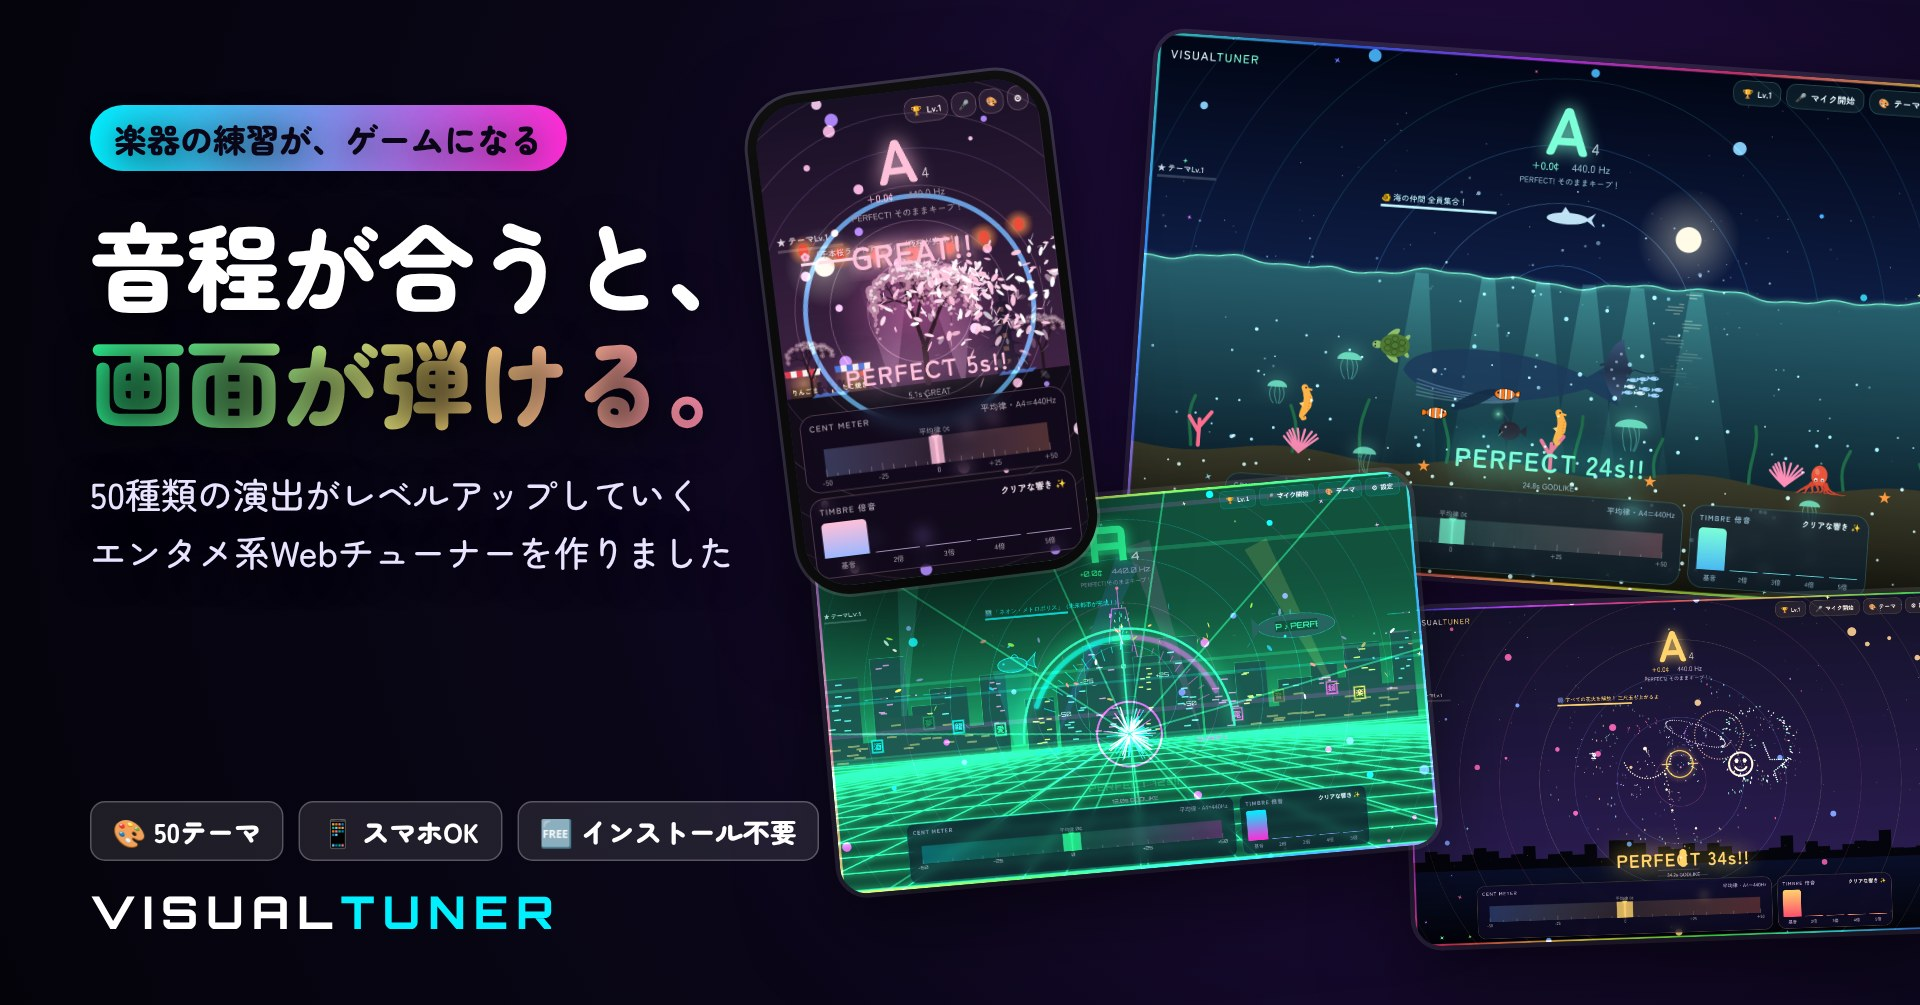
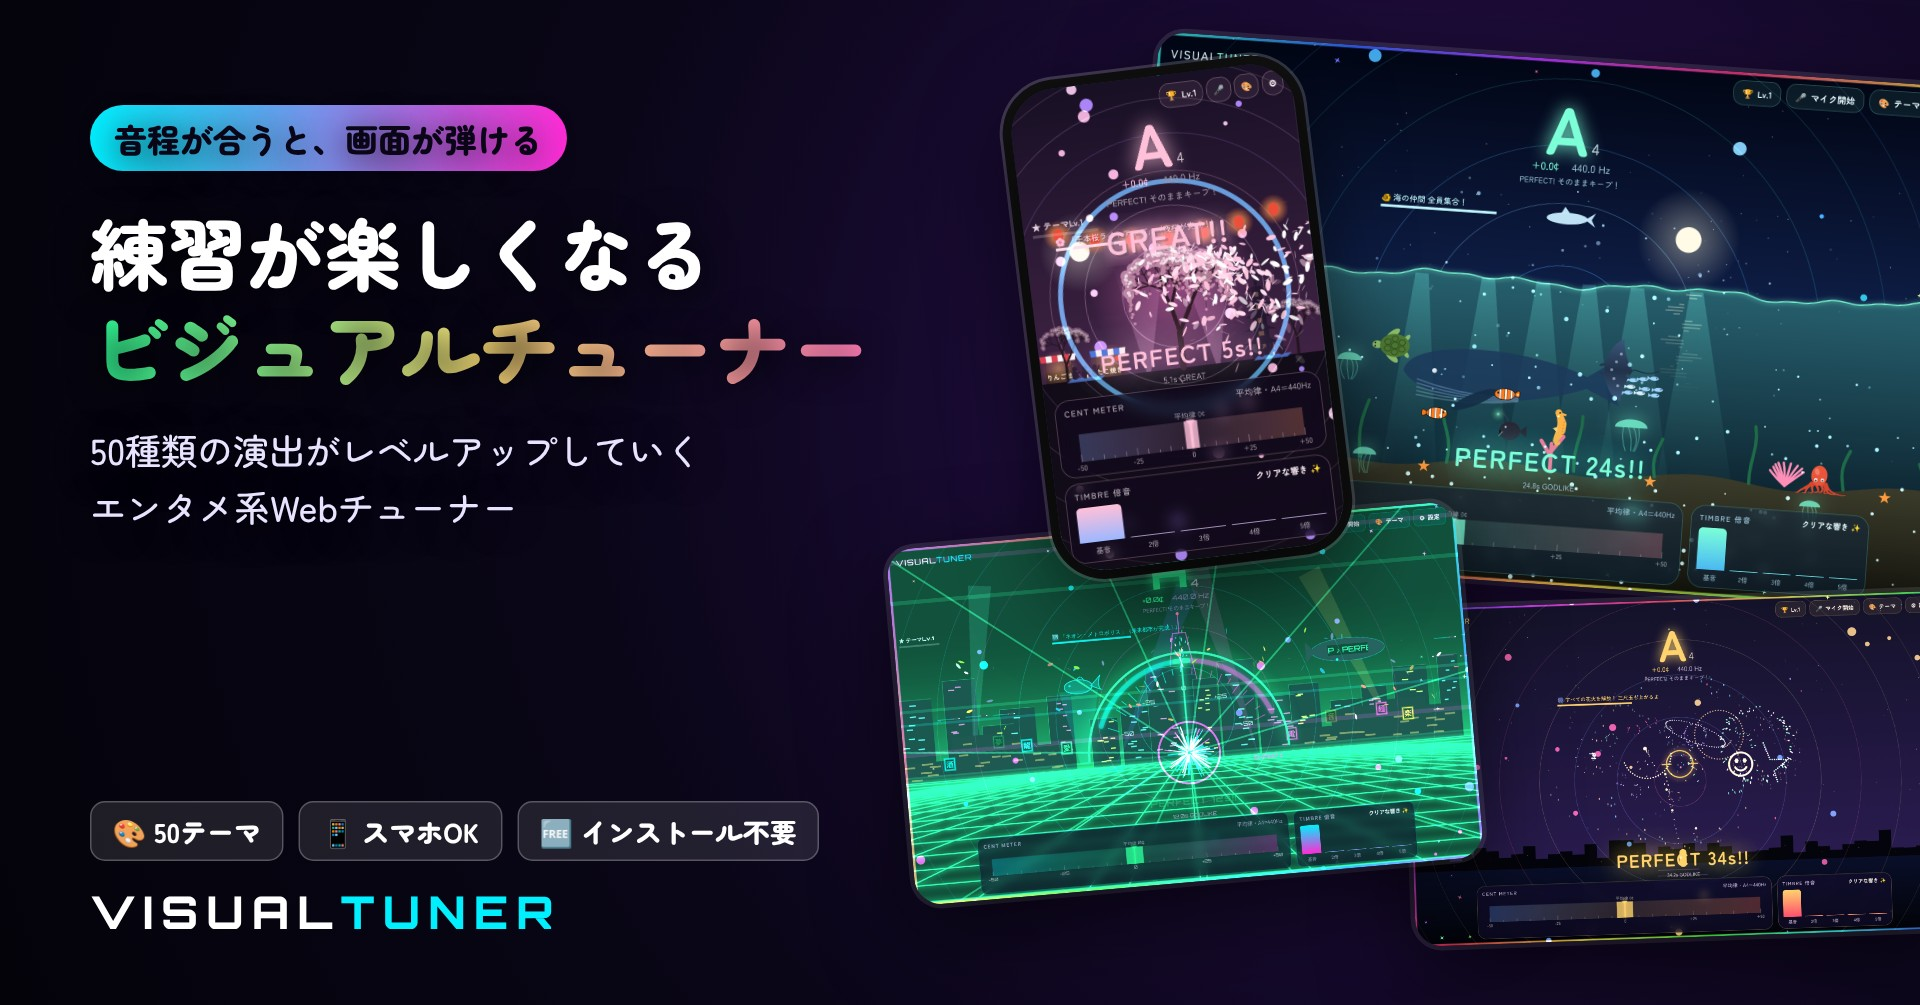
Update note header image and fix leftover test-tone wording
Claude-Session: https://claude.ai/code/session_01E6m8gvAASNJZ8bW7ua3dVR

Changed region(s): [[0.0312, 0.0308, 0.7812, 0.9254], [0.0625, 0.1234, 0.2812, 0.1851]]

diff --git a/note-article/header.html b/note-article/header.html
@@ -8,14 +8,14 @@
   .shot{ position:absolute; border-radius:18px; overflow:hidden; box-shadow:0 20px 60px rgba(0,0,0,.6), 0 0 0 3px rgba(255,255,255,.12); }
   .shot img{ display:block; width:100%; }
   .s1{ width:560px; right:-40px; top:40px; transform:rotate(4deg); }
-  .s2{ width:400px; right:330px; top:330px; transform:rotate(-5deg); }
+  .s2{ width:380px; right:300px; top:350px; transform:rotate(-5deg); }
   .s3{ width:360px; right:-20px; top:400px; transform:rotate(-2deg); }
-  .phone{ position:absolute; width:190px; left:520px; top:60px; border-radius:30px; overflow:hidden; transform:rotate(-7deg);
+  .phone{ position:absolute; width:190px; left:690px; top:50px; border-radius:30px; overflow:hidden; transform:rotate(-7deg);
           box-shadow:0 20px 60px rgba(0,0,0,.7), 0 0 0 6px #111, 0 0 0 8px rgba(255,255,255,.2); }
   .phone img{ display:block; width:100%; }
-  .copy{ position:absolute; left:60px; top:70px; width:520px; z-index:5; text-shadow:0 4px 24px rgba(0,0,0,.8); }
+  .copy{ position:absolute; left:60px; top:70px; width:700px; z-index:5; text-shadow:0 4px 24px rgba(0,0,0,.8); }
   .tag{ display:inline-block; font-weight:900; font-size:22px; padding:6px 16px; border-radius:999px; background:linear-gradient(90deg,#00f0ff,#ff2bd6); color:#0a0618; }
-  h1{ font-size:64px; line-height:1.22; margin:22px 0 18px; font-weight:900; }
+  h1{ font-size:52px; white-space:nowrap; line-height:1.22; margin:22px 0 18px; font-weight:900; }
   h1 em{ font-style:normal; background:linear-gradient(90deg,#2bff9a,#ffe27a,#ff7ab8); -webkit-background-clip:text; color:transparent; }
   p{ font-size:24px; line-height:1.6; margin:0; font-weight:500; color:#e8e4ff; }
   .logo{ position:absolute; left:60px; bottom:44px; font-family:Orbitron,sans-serif; font-size:30px; letter-spacing:.18em; z-index:5; }
@@ -24,14 +24,14 @@
   .badge div{ font-size:18px; font-weight:900; padding:6px 14px; border-radius:10px; background:rgba(255,255,255,.1); border:1px solid rgba(255,255,255,.25); }
 </style></head>
 <body>
-  <div class="shot s1"><img src="images/raw-ocean.png"></div>
-  <div class="shot s3"><img src="images/raw-hanabi.png"></div>
-  <div class="shot s2"><img src="images/raw-neon.png"></div>
-  <div class="phone"><img src="images/raw-phone-sakura.png"></div>
+  <div class="shot s1"><img src="src/raw-ocean.png"></div>
+  <div class="shot s3"><img src="src/raw-hanabi.png"></div>
+  <div class="shot s2"><img src="src/raw-neon.png"></div>
+  <div class="phone"><img src="src/raw-phone-sakura.png"></div>
   <div class="copy">
-    <span class="tag">楽器の練習が、ゲームになる</span>
-    <h1>音程が合うと、<br><em>画面が弾ける。</em></h1>
-    <p>50種類の演出がレベルアップしていく<br>エンタメ系Webチューナーを作りました</p>
+    <span class="tag">音程が合うと、画面が弾ける</span>
+    <h1>練習が楽しくなる<br><em>ビジュアルチューナー</em></h1>
+    <p>50種類の演出がレベルアップしていく<br>エンタメ系Webチューナー</p>
   </div>
   <div class="badge"><div>🎨 50テーマ</div><div>📱 スマホOK</div><div>🆓 インストール不要</div></div>
   <div class="logo">VISUAL<span>TUNER</span></div>

diff --git a/index.html b/index.html
@@ -441,7 +441,7 @@ async function toggleMic(){
     toast('🎤 マイクON！楽器を鳴らしてみよう');
   }catch(e){
     const msg = e.name==='NotAllowedError' ? 'マイクが許可されませんでした。ブラウザのアドレスバー横からマイクを許可してください。'
-              : e.name==='NotFoundError' ? 'マイクが見つかりません。テスト音で演出を試せます。'
+              : e.name==='NotFoundError' ? 'マイクが見つかりません。マイクをつないでからもう一度お試しください。'
               : e.name==='Unsupported' ? 'このブラウザ/開き方ではマイクが使えません（https または localhost で開いてください）。'
               : 'マイクを開始できませんでした：'+e.message;
     toast(msg, 5000);
@@ -812,7 +812,7 @@ function openRecords(on){
     ${(PROG.const15||[]).length?`<div class="label">集めた星座</div><div class="flex gap-1" style="flex-wrap:wrap;margin-bottom:.8rem">${PROG.const15.map(i=>`<span class="text-[11px] panel" style="padding:.1rem .45rem">${(THEMES.constellation.DATA[i]||{}).n}</span>`).join('')}</div>`:''}
     <div class="label">実績バッジ</div>
     <div style="display:grid;grid-template-columns:repeat(auto-fill,minmax(150px,1fr));gap:.5rem">${ach}</div>
-    <div class="text-xs muted" style="margin-top:.8rem">※ 記録はマイクで練習したときだけ貯まります（テスト音では貯まりません）。段位バナーや FEVER はテスト音でも楽しめます。</div>`;
+    <div class="text-xs muted" style="margin-top:.8rem">※ 記録はマイクで練習したときだけ貯まります。</div>`;
 }
 
 /* ===================== 共通エフェクトエンジン ===================== */

diff --git a/README.md b/README.md
@@ -218,7 +218,7 @@ palette:{ bg:'#05020d', flat:'#00f0ff', sharp:'#ff2bd6', good:'#2bff9a', ... }
 | 波の荒れやすさ | `0.03+0.2*clamp(Math.abs(S.devDisp)/40` | `0.2` を大きくすると荒波に |
 
 ### ④ 新しいテーマを追加する（ちょっと上級）
-`THEMES` の中の1テーマ（例：`snow: { ... },`）を丸ごとコピーして名前を変えれば、25個目のテーマとしてテーマ一覧に自動で並びます。
+`THEMES` の中の1テーマ（例：`snow: { ... },`）を丸ごとコピーして名前を変えれば、51個目のテーマとしてテーマ一覧に自動で並びます（アンロックは5種類ずつなので、最後のグループに入ります）。
 各テーマは次のパーツでできています：
 
 - `bg` … 背景を描く
